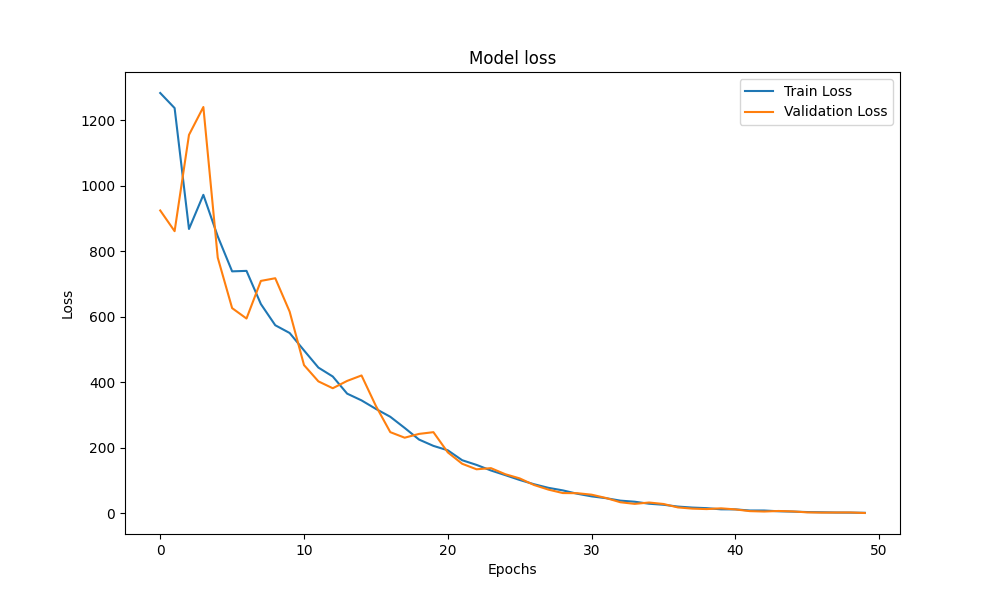
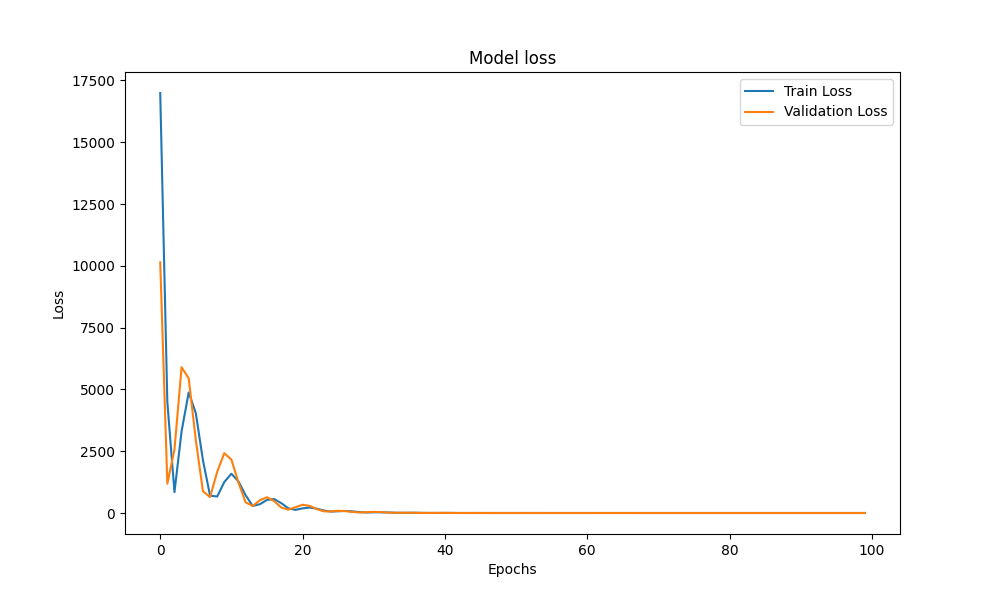
temperatura

diff --git a/temperaturas/temp_neural.py b/temperaturas/temp_neural.py
@@ -26,9 +26,9 @@ model = tf.keras.models.Sequential([
 # model.add(tf.keras.layers.Dense(units=3))
 # model.add(tf.keras.layers.Dense(units=1))
 
-model.compile(optimizer=tf.keras.optimizers.Adam(0.5), loss='mse')
+model.compile(optimizer=tf.keras.optimizers.Adam(0.6), loss='mse')
 
-model_history = model.fit(X_train, y_train, epochs=50, validation_split=0.2)
+model_history = model.fit(X_train, y_train, epochs=100, validation_split=0.2)
 
 y_pred = model.predict(X_test)
 
